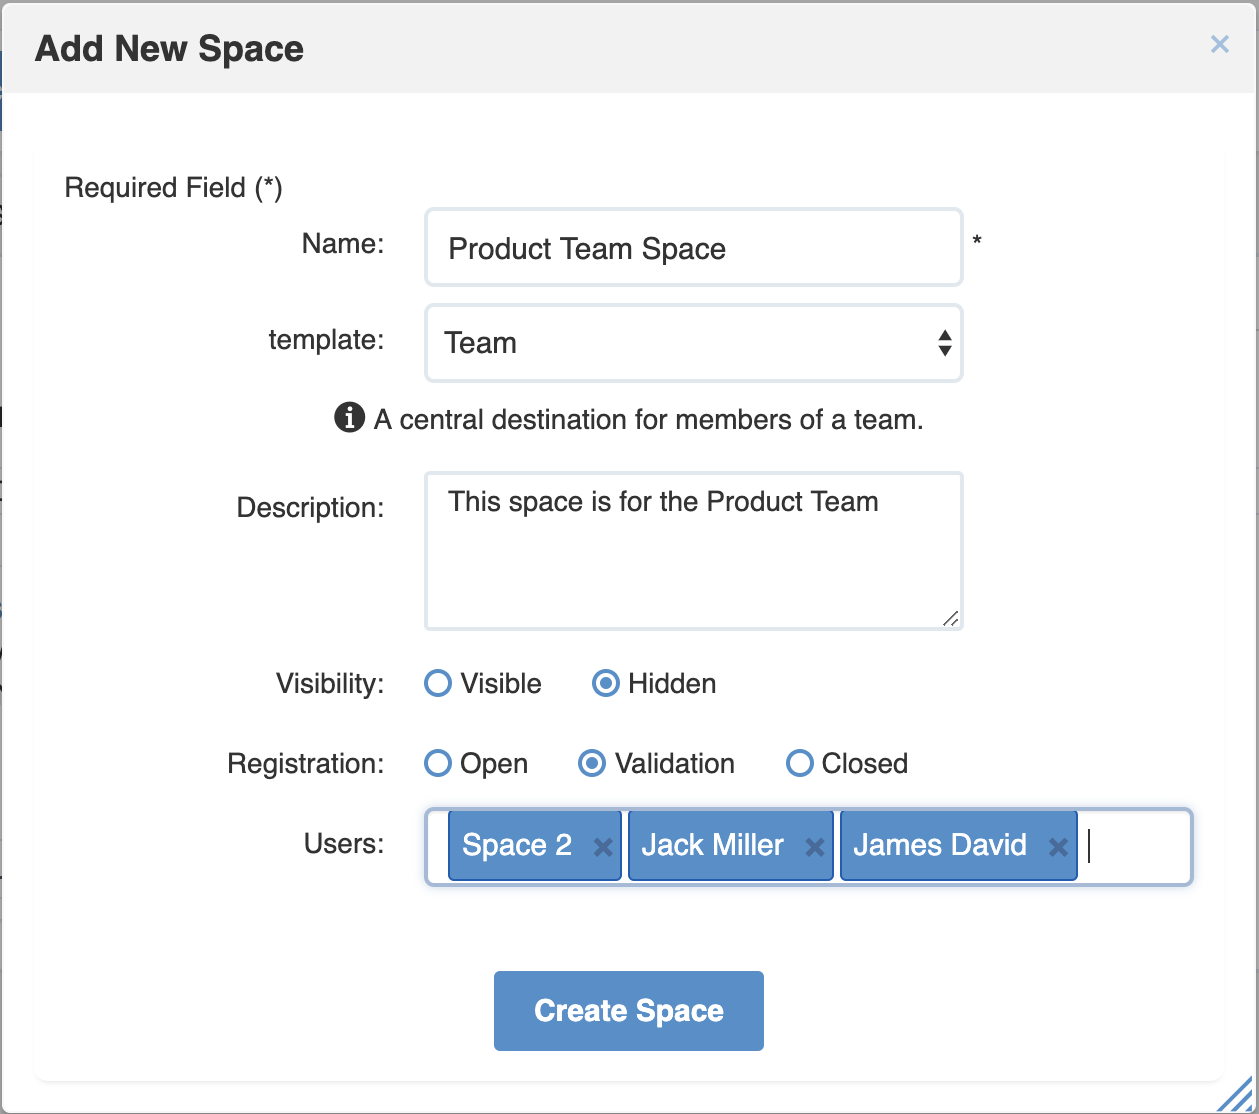
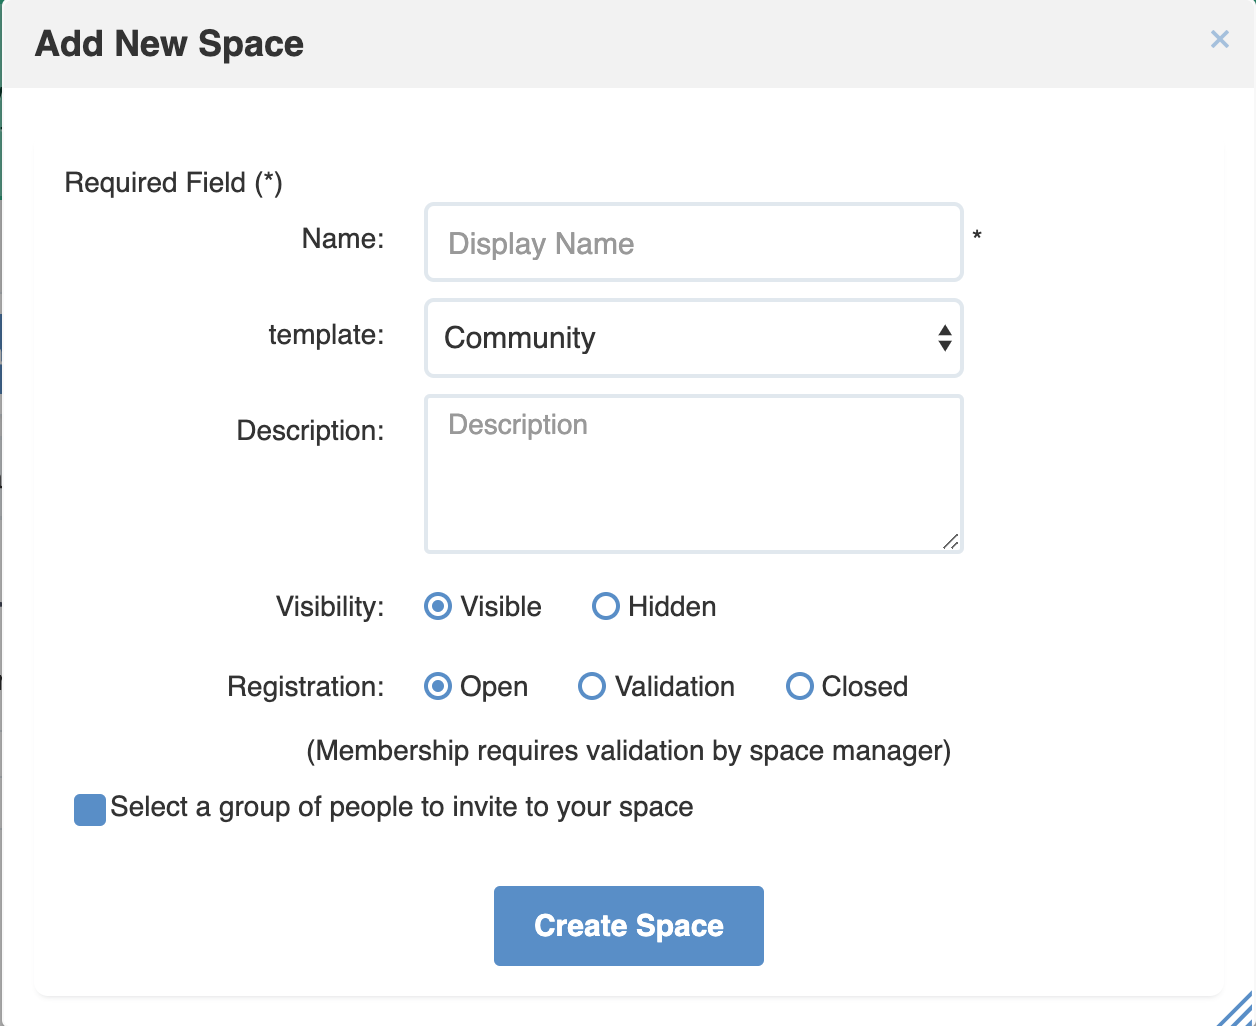
DOC-4273

diff --git a/docs/Manage-Space.rst b/docs/Manage-Space.rst
@@ -267,11 +267,26 @@ A description of each template is displayed below the selectors.
    -  Close: The user cannot request for joining, but only the space
       manager can invite him.
 
-5. In the **Users ** field, the space creator can invite users or space members to the space to create just by picking them with the selector.
+5. In the Invite users from group chackbox, select all members of a specific group for your space where you are already ‘manager’.
 
-Type-ahead suggestions allow to facilitate selection users and groups to invite.
+One of the two following cases occurs when you select this chechbox.
 
-.. note:: Only spaces that the creator is member of can be selected.
+-  **The first instance:** You have been already the manager of a group. It means that you have created at least a space.
+
+|image32|
+
+-  i. Tick the Select a group of people to invite in your space checkbox to open the form below.
+
+-  ii. Select the group in the left pane, then its child group in the right pane.
+You will see your selected group as below.
+
+|image25|
+
+.. note:: To remove the selected groups, untick the **Select a group of people to invite in your space** checkbox. After you have selected one existing group, all users in that group will be invited to join your newly created space.
+
+-  **The second instance:** You have not been a manager of any group yet. It means that this is the first time you create a space, so you cannot select a target group.
+
+|image26|
 
 6. Click Create Space button to finish adding your new space. The new space appears.
 
